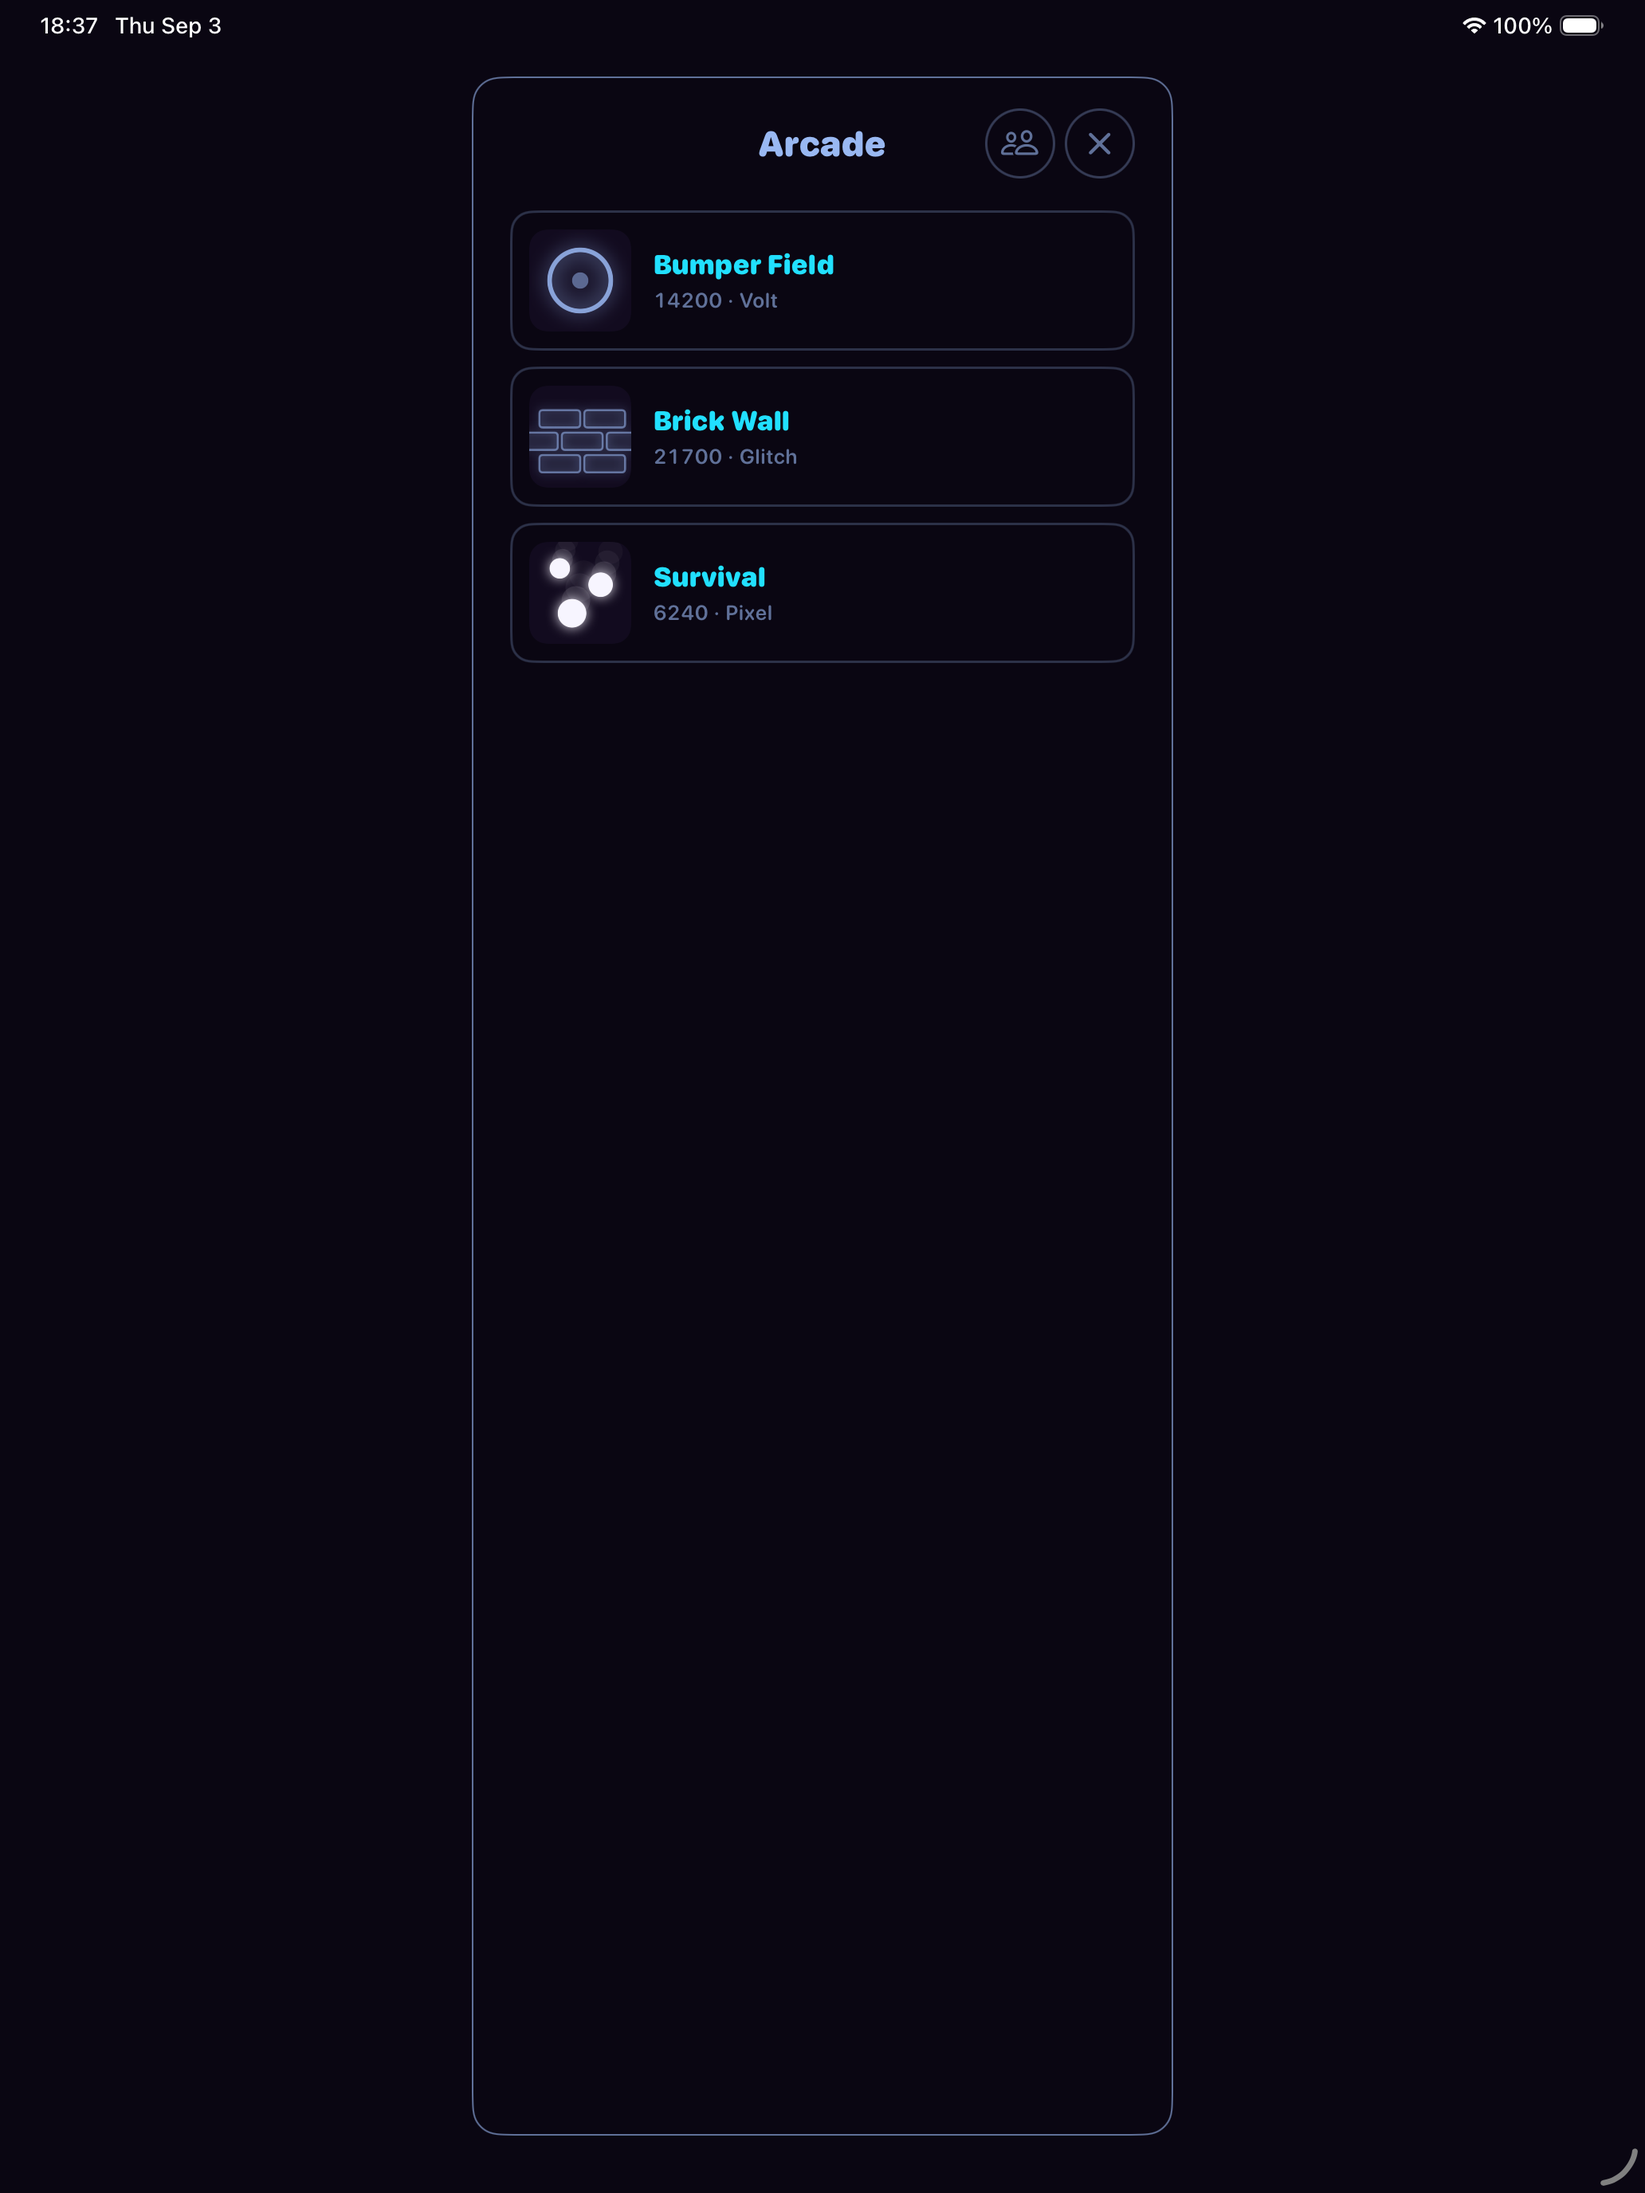
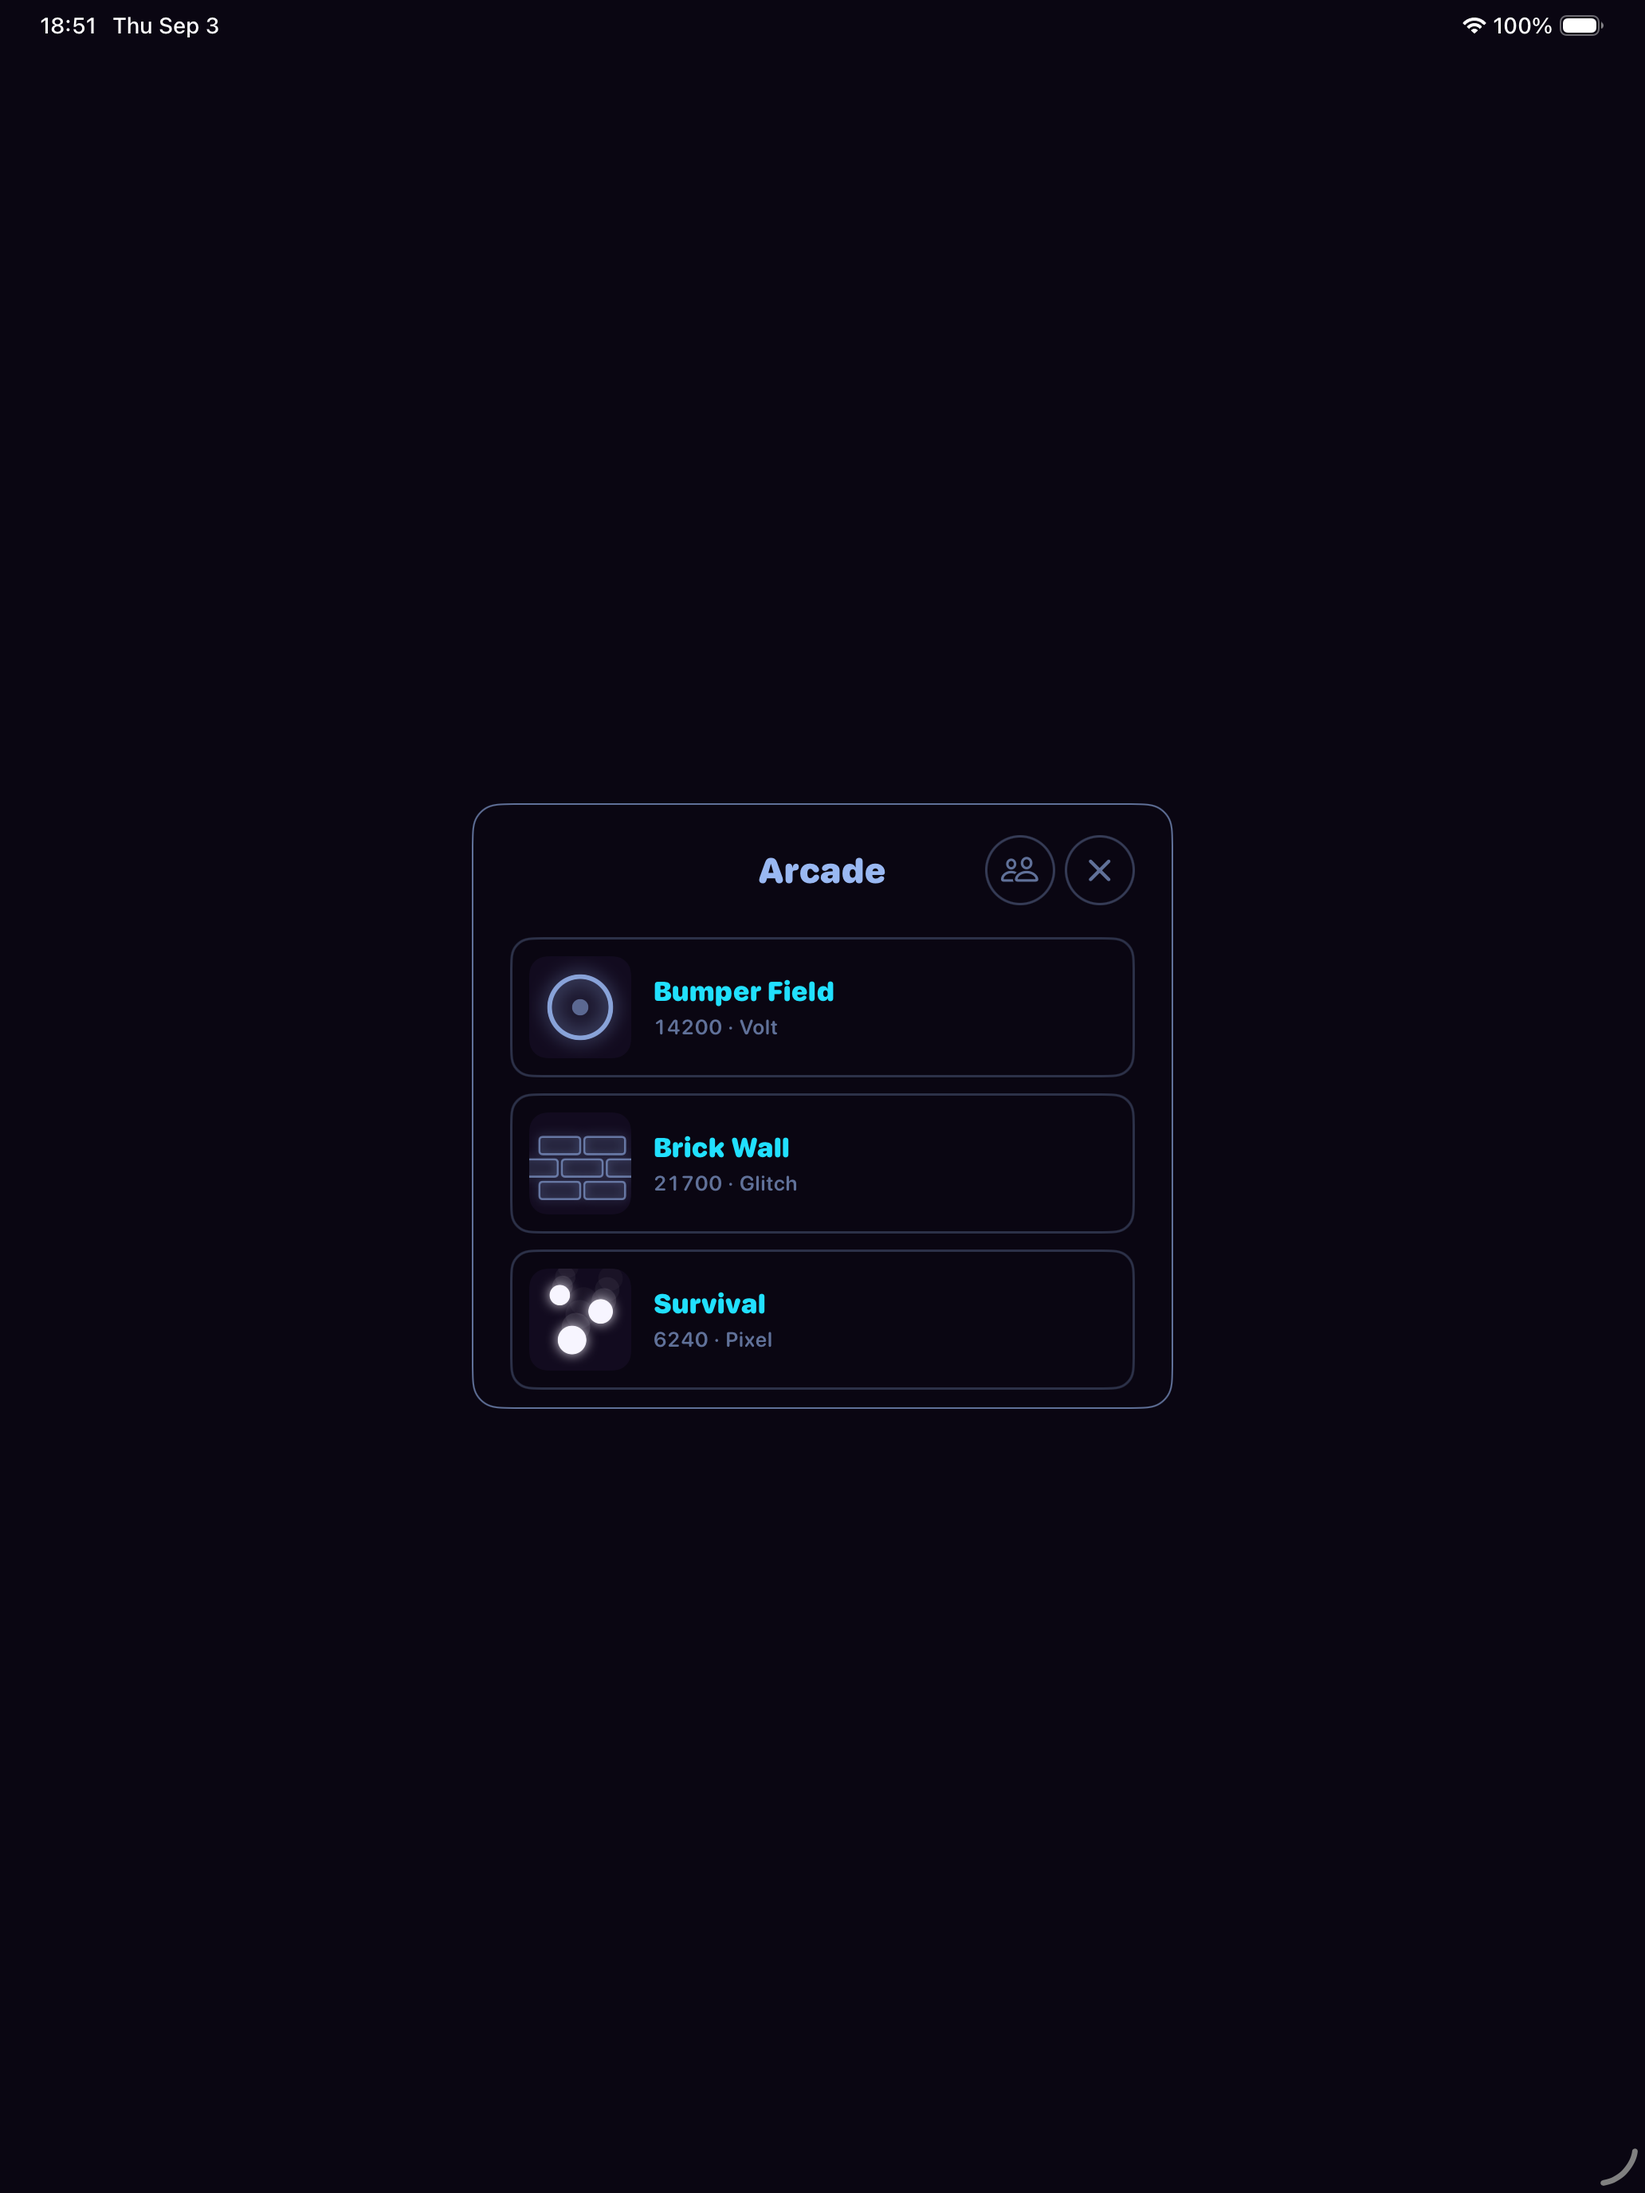
The bracket sheet wears the players' kits
The drawn knockout sheet predated kit colors and never learned them:
neutral ink for everyone, the live pair hardcoded magenta/cyan, the
champion plain cyan — inconsistent with the VS. banner above it and
the standings lists, which all glow in the players' own neons. The
sheet now takes the same kit lookup the lists use plus the pairing's
resolved end colors: every name in its home neon, the eliminated
dimmed in theirs, the champion glowing in theirs, and the live pairing
in exactly the colors its table will wear.

diff --git a/Packages/PuckaroundCore/Sources/PuckaroundKit/App/BracketSheet.swift b/Packages/PuckaroundCore/Sources/PuckaroundKit/App/BracketSheet.swift
@@ -7,12 +7,18 @@ import SwiftUI
 /// bright where the player advanced, faint where they fell, neutral while the
 /// match is to come. An undecided slot shows a dim blank where the winner will
 /// land; a round-one bye pair isn't drawn at all — its player simply enters at
-/// the next round. Losers dim out, the live pairing wears the end colors, and
-/// a decided champion glows. Wide fields scroll sideways; the tallest column
-/// always fits the card without vertical scrolling, even at the 32-player cap.
+/// the next round. Every name wears its player's own kit — the eliminated
+/// dimmed in theirs, the champion glowing in theirs — and the live pairing
+/// wears the resolved end colors its table wears, matching the VS. banner.
+/// Wide fields scroll sideways; the tallest column always fits the card
+/// without vertical scrolling, even at the 32-player cap.
 struct BracketSheet: View {
     let rounds: [[String?]]
     let current: Pairing?
+    /// The live pairing's clash-resolved end colors, when a match is up.
+    let liveColors: EndColors?
+    /// A name's home kit color — the same lookup the standings lists use.
+    let kitColor: (String) -> Color
 
     private var entrants: Int { rounds[0].count }
     private var rowHeight: CGFloat { entrants > 16 ? 13 : entrants > 8 ? 17 : 24 }
@@ -110,16 +116,17 @@ struct BracketSheet: View {
         return advanced == name ? Neon.ink.opacity(0.8) : Neon.inkSoft.opacity(0.3)
     }
 
-    /// A name's state on the sheet: live (the current pairing, in end colors),
-    /// out (its match is decided and it didn't advance), or simply standing.
+    /// A name's state on the sheet: live (the current pairing, in the resolved
+    /// end colors), out (its match is decided and it didn't advance, dimmed in
+    /// its own kit), or standing — everyone in their own neon.
     private func color(of name: String, round: Int, slot: Int) -> Color {
-        guard round + 1 < rounds.count else { return Neon.cyan }
+        guard round + 1 < rounds.count else { return kitColor(name) }
         let advanced = rounds[round + 1][slot / 2]
         if advanced == nil {
-            if name == current?.bottom { return Neon.magenta }
-            if name == current?.top { return Neon.cyan }
-            return Neon.ink
+            if name == current?.bottom { return liveColors?.bottom ?? kitColor(name) }
+            if name == current?.top { return liveColors?.top ?? kitColor(name) }
+            return kitColor(name)
         }
-        return advanced == name ? Neon.ink : Neon.inkSoft.opacity(0.55)
+        return advanced == name ? kitColor(name) : kitColor(name).opacity(0.5)
     }
 }

diff --git a/Packages/PuckaroundCore/Sources/PuckaroundKit/App/TournamentView.swift b/Packages/PuckaroundCore/Sources/PuckaroundKit/App/TournamentView.swift
@@ -122,7 +122,9 @@ struct TournamentView: View {
         case .winnerStays(let t):
             lineDetails(t)
         case .bracket(let b):
-            BracketSheet(rounds: b.rounds, current: b.current)
+            BracketSheet(
+                rounds: b.rounds, current: b.current,
+                liveColors: b.current.map { resolvedColors(e, $0) }, kitColor: kitColor)
         case .league(let l):
             leagueDetails(l)
         }

diff --git a/CHANGELOG.md b/CHANGELOG.md
@@ -14,6 +14,7 @@ The `## vX.Y.Z` heading is written by the release lane too, whenever a release c
 
 ### Unreleased (next build)
 
+- **The bracket wears the players' colors.** The drawn knockout sheet colored every name neutral with the live pair in the classic magenta/cyan, as if nobody owned a kit — now every name glows in its player's own neon (the eliminated dimmed in theirs, the champion shining in theirs), and the live pairing wears the exact resolved colors its table will wear, matching the VS. banner above.
 - **Sheets hug their content.** On a roomy screen (the iPad) the New match, Tournament, Arcade, Names, Settings, and About cards now wrap snugly around what's in them instead of stretching floor to ceiling with the buttons pinned far apart; where the screen is shorter than the card, they scroll exactly as before.
 
 ### build 11 — 2026-09-03
